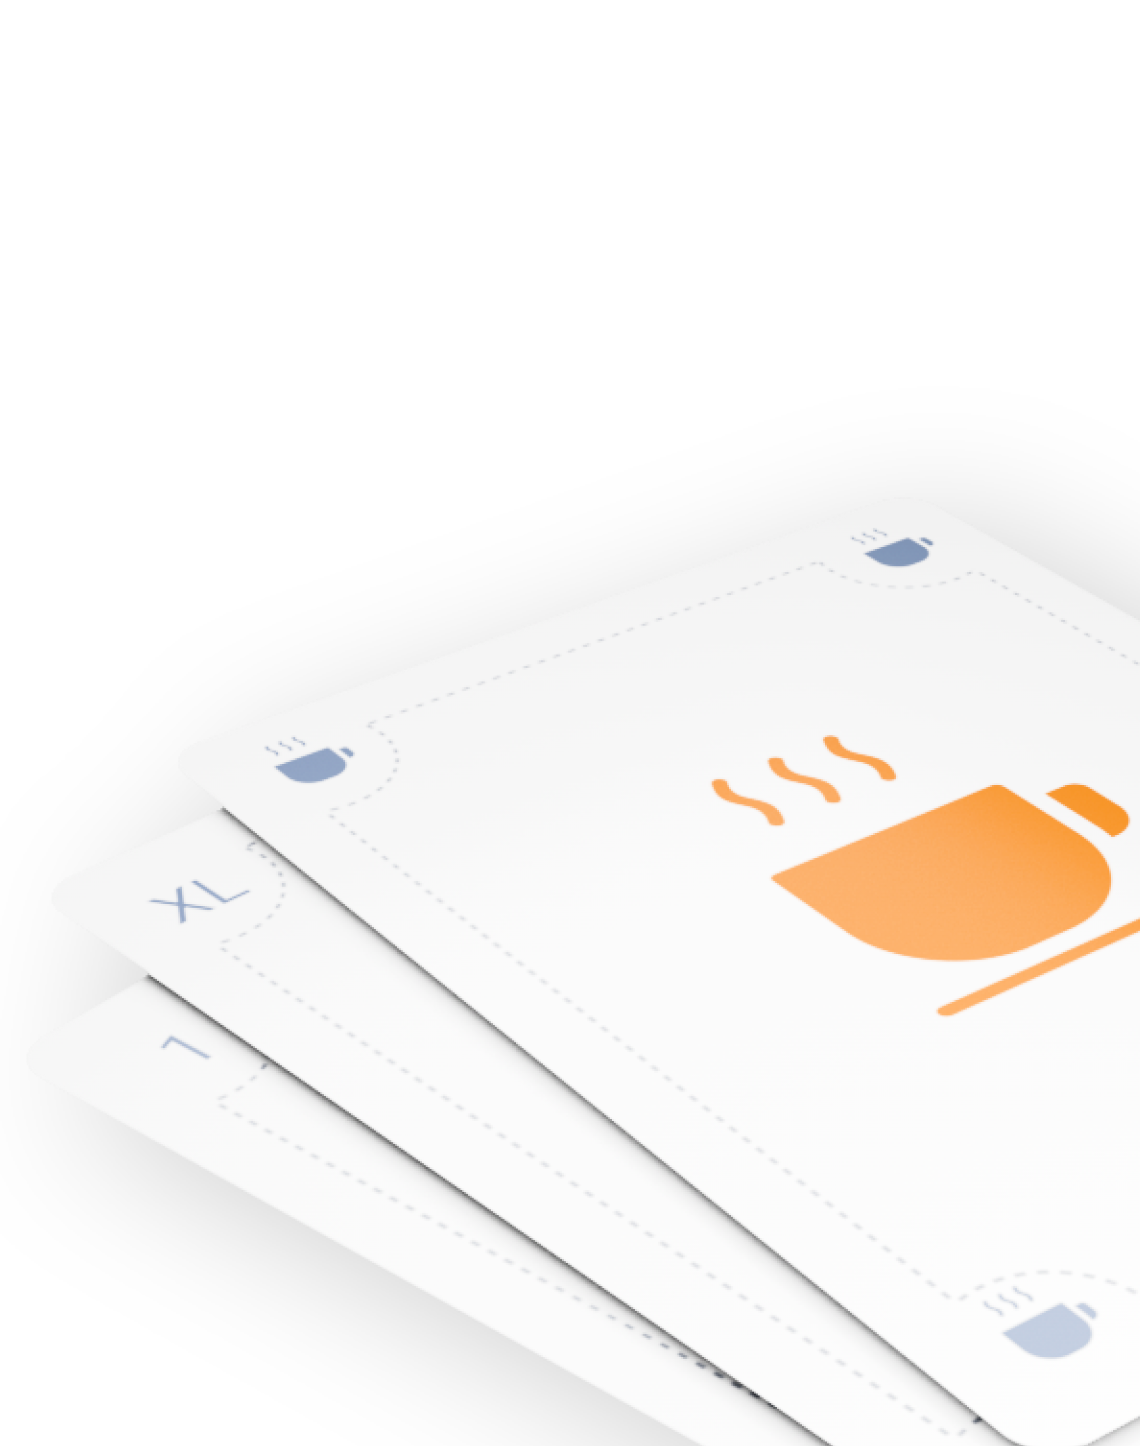
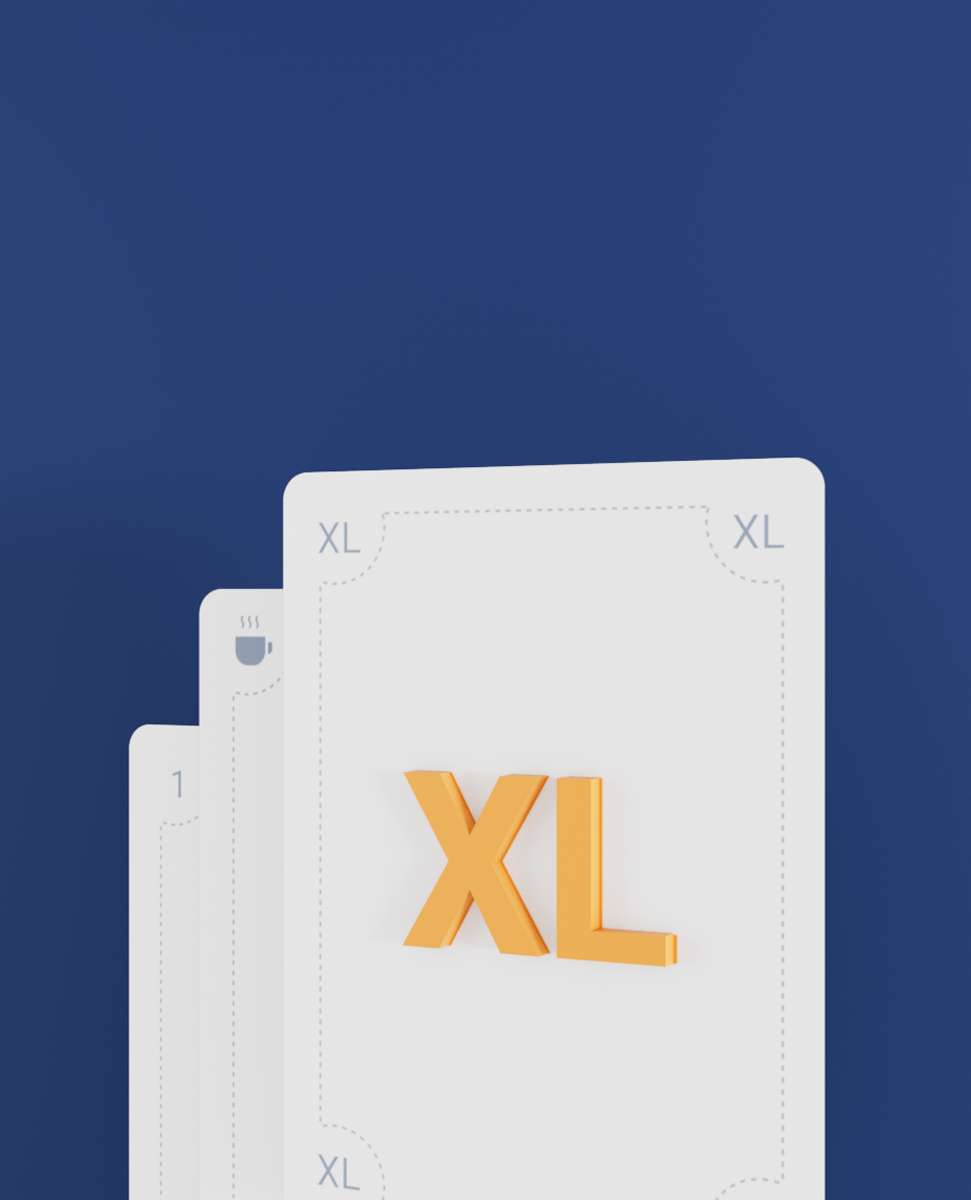
feat: Add new images, formats

diff --git a/src/app/landing/home/home.component.html b/src/app/landing/home/home.component.html
@@ -25,7 +25,11 @@
       </div>
     </div>
     <div class="header-cards">
-      <img src="/assets/header_cards.png" />
+      <picture>
+        <source srcset="/assets/header_cards.webp" type="image/webp">
+        <source srcset="/assets/header_cards.png" type="image/jpeg"> 
+        <img src="/assets/header_cards.png" alt="Two cards with numbers">
+      </picture>
     </div>
   </div>
 </section>
@@ -35,17 +39,38 @@
     <div class="features-grid">
       <div class="feature-card wide">
         <h3>Easy-to-use and accessible UI</h3>
+        <picture>
+          <source srcset="/assets/easy_accessible.webp" type="image/webp">
+          <source srcset="/assets/easy_accessible.png" type="image/jpeg"> 
+          <img src="/assets/easy_accessible.png" alt="UI components laid out visually">
+        </picture>
       </div>
       <div class="feature-card">
         <h3>Manage rounds and download results</h3>
+        <picture>
+          <source srcset="/assets/topics.webp" type="image/webp">
+          <source srcset="/assets/topics.png" type="image/jpeg"> 
+          <img src="/assets/topics.png" alt="Two example JIRA topic cards">
+        </picture>
       </div>
       <div class="feature-card">
         <h3>Use any kind of card set</h3>
-        <img src="/assets/card_set.png" />
+        <picture>
+          <source srcset="/assets/card_set.webp" type="image/webp">
+          <source srcset="/assets/card_set.png" type="image/jpeg"> 
+          <img src="/assets/card_set.png" alt="An example planning poker card set">
+        </picture>
       </div>
       <div class="feature-card wide">
-        <h3>Available on the web and as a Zoom App</h3>
-        <img src="/assets/zoom_app.png" />
+        <h3>
+          Available on the web and<br />
+          as a Zoom App
+        </h3>
+        <picture>
+          <source srcset="/assets/zoom_app.webp" type="image/webp">
+          <source srcset="/assets/zoom_app.png" type="image/jpeg"> 
+          <img src="/assets/zoom_app.png" alt="The app running inside Zoom">
+        </picture>
       </div>
     </div>
   </div>
@@ -60,21 +85,27 @@
         muted
         (loadedmetadata)="video.muted = true"
         [controls]="!video.paused"
+        poster="/assets/video_poster.webp"
       >
         <source
           src="https://storage.googleapis.com/card-estimator.appspot.com/landing_video.mp4"
           type="video/mp4"
         />
       </video>
-      <button
-        mat-fab
-        color="primary"
-        aria-label="Play demo video"
-        (click)="video.play()"
+      <div
+        class="start-video-overlay"
         [class.hidden]="!video.paused"
+        (click)="video.play()"
       >
-        <mat-icon>play_arrow</mat-icon>
-      </button>
+        <button
+          mat-fab
+          color="primary"
+          aria-label="Play demo video"
+          (click)="video.play()"
+        >
+          <mat-icon>play_arrow</mat-icon>
+        </button>
+      </div>
     </div>
     <div class="steps-container">
       <mat-tab-group dynamicHeight>
@@ -218,7 +249,11 @@
       </div>
     </div>
     <div class="about-section-right">
-      <img src="/assets/meeting_table.png" />
+      <picture>
+        <source srcset="/assets/meeting_table.webp" type="image/webp">
+        <source srcset="/assets/meeting_table.png" type="image/jpeg"> 
+        <img src="/assets/meeting_table.png" alt="People having a meeting around a table">
+      </picture>
     </div>
   </div>
 </section>

diff --git a/src/app/landing/home/home.component.scss b/src/app/landing/home/home.component.scss
@@ -1,7 +1,6 @@
 .hero-header-section {
   background: linear-gradient(90deg, #345ca8 30.32%, #80c2f2 100%);
   overflow: hidden;
-
 }
 
 .hero-header {
@@ -103,7 +102,7 @@
 }
 
 .features-section {
-  padding-top: 75px;
+  padding-top: 5rem;
   background: var(--background-dark);
 
   .features-content {
@@ -142,14 +141,18 @@
         h3 {
           font-size: 1.5rem;
           font-weight: bold;
+          position: relative;
+          z-index: 1;
         }
 
         img {
           position: absolute;
-          object-fit: contain;
-          width: 100%;
-          bottom: -10%;
+          object-fit: cover;
+          top: -1px;
           left: 0;
+          height: 100%;
+          width: 100%;
+          z-index: 0;
         }
       }
     }
@@ -171,10 +174,6 @@
           &.wide {
             flex: 1 1 100%;
           }
-
-          img {
-            height: 80%;
-          }
         }
       }
     }
@@ -182,7 +181,7 @@
 }
 
 .demo-video-section {
-  padding-top: 75px;
+  padding-top: 5rem;
   background: var(--background-dark);
 
   .demo-video-section-content {
@@ -202,22 +201,49 @@
       max-width: calc(1000px - 2 * 24px);
       margin: 0 auto;
       margin-bottom: 2rem;
+      border-radius: 20px;
+      overflow: hidden;
 
       video {
         width: 100%;
-        border-radius: 20px;
+        display: block;
+      }
+
+      .start-video-overlay {
+        position: absolute;
+        left: 0;
+        top: 0;
+        width: 100%;
+        height: 100%;
+        background: rgba(0, 0, 0, 0.3);
+
+        display: flex;
+        align-items: center;
+        justify-content: center;
+
+        cursor: pointer;
+
+        &:hover {
+          button {
+            transform: scale(1.6);
+          }
+        }
+
+        &.hidden {
+          display: none;
+        }
       }
 
       button {
-        position: absolute;
-        top: 50%;
-        left: 50%;
-        transform: translate(-50%, -50%);
-
+        transform: scale(1.5);
         background: white;
         color: #18325d;
-        &.hidden {
-          display: none;
+
+        transition: background 200ms linear;
+        transition-property: background, transform;
+
+        &:hover {
+          background: #d9e2ff;
         }
       }
     }
@@ -232,7 +258,8 @@
       color: #bfc6dc;
       font-size: 1.1rem;
 
-      &.mat-tab-label-active {
+      &.mat-tab-label-active,
+      &.mat-tab-label-focused {
         color: #afc6ff;
       }
     }
@@ -256,11 +283,11 @@
 }
 
 .about-section {
-  padding-top: 75px;
+  padding: 5rem 0;
+  padding-top: 4rem;
   background: var(--background-dark);
   display: flex;
   justify-content: center;
-  padding-bottom: 5rem;
 
   .about-section-content {
     margin: 24px 24px 0 24px;
@@ -272,7 +299,7 @@
 
     .about-section-left {
       flex: 3 1 55%;
-      padding: 3rem 2rem;
+      padding: 5rem 2rem;
       display: flex;
       flex-direction: column;
       gap: 2rem;
@@ -306,8 +333,8 @@
 
         .mat-expansion-panel-header-title {
           color: #d9e2ff;
-          font-size: 1.3rem;
-          line-height: 1.4rem;
+          font-size: 1.5rem;
+          line-height: 1.6rem;
           font-weight: bold;
         }
 

diff --git a/src/styles.scss b/src/styles.scss
@@ -20,10 +20,10 @@
 html,
 body {
   height: 100%;
+  font-family: Roboto, "Helvetica Neue", sans-serif;
 }
 body {
   margin: 0;
-  font-family: Roboto, "Helvetica Neue", sans-serif;
   background: var(--background-dark);
 
 }
